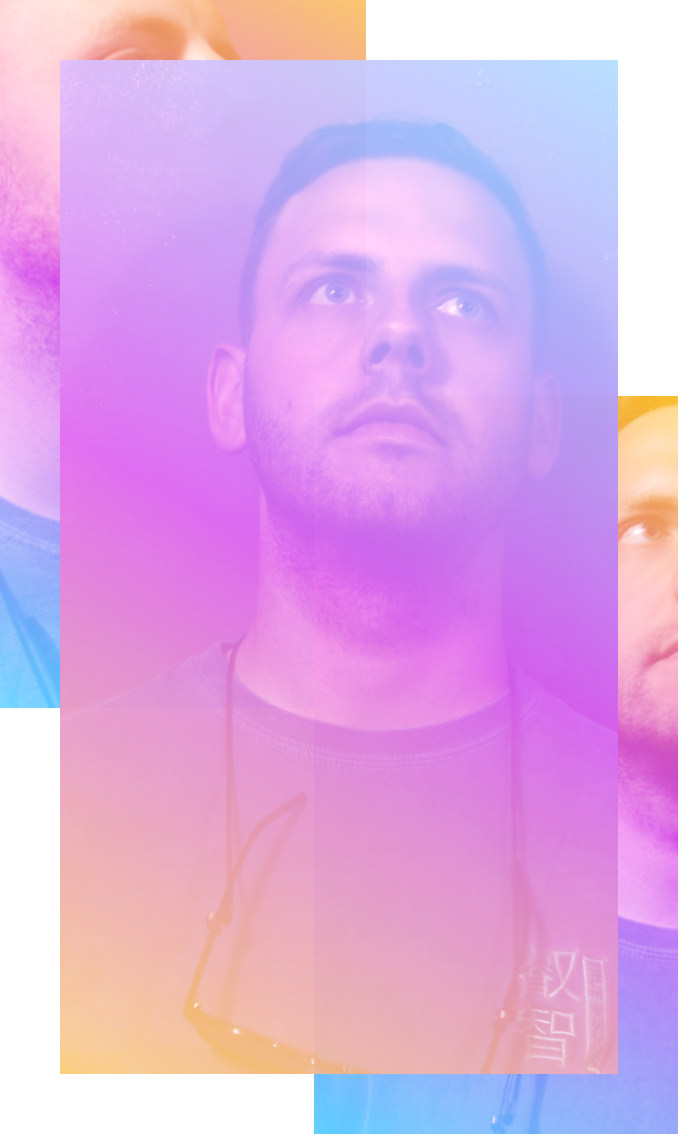
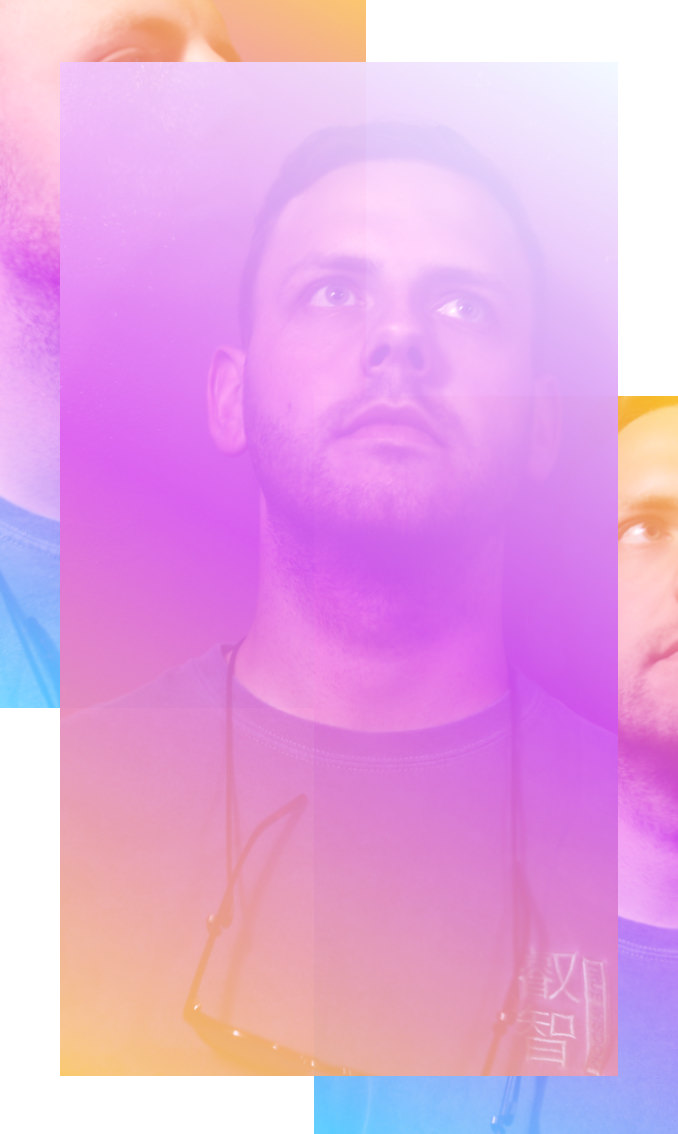
improving about on mobile

Changed region(s): [[0.1858, 0.0309, 0.9292, 0.463], [0.4336, 0.216, 0.5575, 0.2778], [0.7743, 0.8642, 0.8363, 0.9568]]

diff --git a/src/pages/about.js b/src/pages/about.js
@@ -4,6 +4,7 @@ import Layout from "../components/layout"
 import Image from "../components/image"
 import SEO from "../components/seo"
 import { Box, Flex, Text, Heading } from "rebass"
+import ArtDirection from "../components/ArtDirection.js"
 
 export default () => (
   <Layout>
@@ -12,7 +13,7 @@ export default () => (
       style={{ marginTop: `140px`, marginBottom: `120px` }}
       alignItems="center"
       vertical="center"
-      wrap
+      wrapReverse
       justifyContent="space-between"
     >
       <Column
@@ -122,11 +123,19 @@ export default () => (
         }}
         flexGrow={1}
       >
-        <Image filename="me.jpg" />
-        <p className="me" style={{ marginTop: `30px`, marginLeft: `25px` }}>
-          Pictures taken in the{" "}
-          <a href="https://www.colorfactory.co/nyc">Color Factory</a>, New York
-        </p>
+        <ArtDirection>
+          <Box paddingRight="60px" paddingLeft="60px">
+            <Image filename="me-mobile.jpg"></Image>
+          </Box>
+          <Box>
+            <Image filename="me.jpg" />
+            <p className="me" style={{ marginTop: `30px`, marginLeft: `25px` }}>
+              Pictures taken in the{" "}
+              <a href="https://www.colorfactory.co/nyc">Color Factory</a>, New
+              York
+            </p>
+          </Box>
+        </ArtDirection>
       </Column>
     </Row>
   </Layout>
